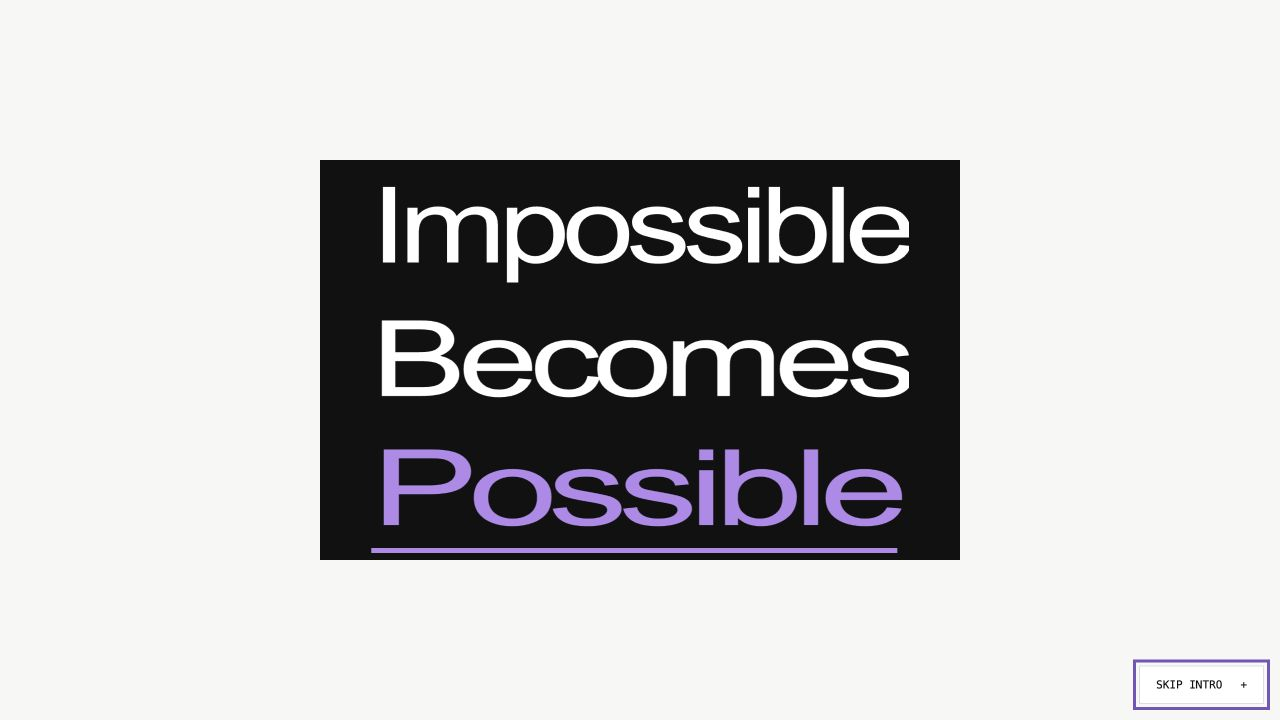
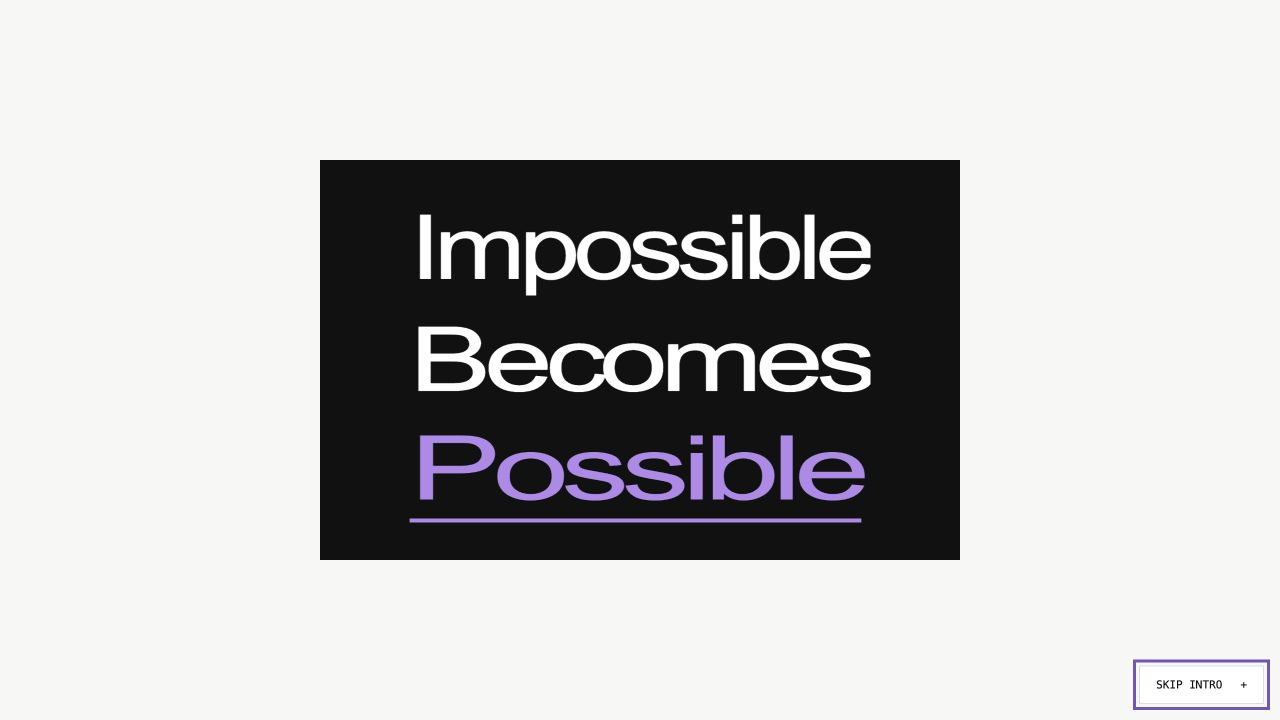
Center smaller intro words with balanced breathing room

diff --git a/public/intro.css b/public/intro.css
@@ -2,10 +2,10 @@
 .intro-pending:not(.intro-revealing) body > :not(#opening-intro) { visibility:hidden; }
 #opening-intro { position:fixed; inset:0; z-index:10000; background:#f7f7f5; display:grid; place-items:center; animation:intro-exit 1s cubic-bezier(.76,0,.24,1) 4.1s forwards; }
 .intro-card { position:relative; width:min(640px,calc(100vw - 48px),112svh); aspect-ratio:1.6; container-type:inline-size; background:#111; color:white; overflow:hidden; }
-.intro-zone { position:absolute; left:0; width:100%; height:33.333%; display:grid; place-items:center; font-family:Arial,Helvetica,sans-serif; font-size:16.5cqw; font-weight:500; letter-spacing:-.06em; line-height:1.05; }
-.intro-top { top:0; animation:intro-converge-top .75s cubic-bezier(.76,0,.24,1) 2.6s both; }
-.intro-middle { top:33.333%; animation:intro-middle-out .75s cubic-bezier(.76,0,.24,1) 2.6s both; }
-.intro-bottom { top:66.666%; animation:intro-converge-bottom .75s cubic-bezier(.76,0,.24,1) 2.6s both; }
+.intro-zone { position:absolute; left:0; width:100%; height:28%; display:grid; place-items:center; font-family:Arial,Helvetica,sans-serif; font-size:14cqw; font-weight:500; letter-spacing:-.06em; line-height:1.05; }
+.intro-top { top:8%; animation:intro-converge-top .75s cubic-bezier(.76,0,.24,1) 2.6s both; }
+.intro-middle { top:36%; animation:intro-middle-out .75s cubic-bezier(.76,0,.24,1) 2.6s both; }
+.intro-bottom { top:64%; animation:intro-converge-bottom .75s cubic-bezier(.76,0,.24,1) 2.6s both; }
 .intro-zone > span { grid-area:1/1; white-space:nowrap; transform-origin:center; }
 .intro-impossible,.intro-middle > span,.intro-possible { animation:intro-word-in .9s cubic-bezier(.2,.7,.2,1) .4s both; }
 .intro-impossible { animation:intro-word-in .9s cubic-bezier(.2,.7,.2,1) .4s both,intro-word-out .75s cubic-bezier(.76,0,.24,1) 2.6s forwards; }
@@ -18,8 +18,8 @@
 @keyframes intro-word-in { from { opacity:0; transform:translateY(45px); clip-path:inset(100% 0 0); } to { opacity:1; transform:translateY(0); clip-path:inset(0); } }
 @keyframes intro-word-out { to { opacity:0; transform:translateY(-65px); } }
 @keyframes intro-middle-out { to { opacity:0; transform:translateY(-25px); } }
-@keyframes intro-converge-top { to { transform:translateY(58%); } }
-@keyframes intro-converge-bottom { to { transform:translateY(-58%); } }
+@keyframes intro-converge-top { to { transform:translateY(50%); } }
+@keyframes intro-converge-bottom { to { transform:translateY(-50%); } }
 @keyframes intro-purple { to { color:#b388eb; } }
 @keyframes intro-underline { to { transform:scaleX(1); } }
 @keyframes intro-exit { to { opacity:0; visibility:hidden; } }

diff --git a/public/intro.js b/public/intro.js
@@ -34,7 +34,7 @@
     document.body.append(overlay);
     const card = overlay.querySelector('.intro-card');
     const fitWords = () => {
-      const width = card.clientWidth * .84;
+      const width = card.clientWidth * .72;
       overlay.querySelectorAll('.intro-zone > span').forEach(word => {
         if (word.offsetWidth) word.style.scale = `${width / word.offsetWidth} 1`;
       });
